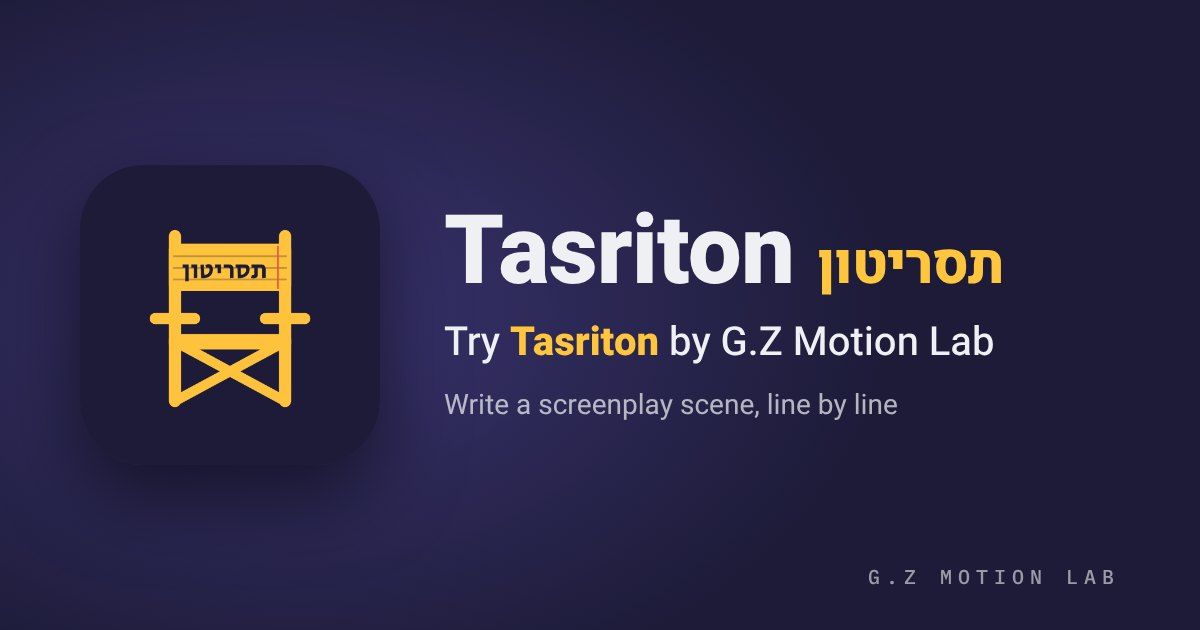
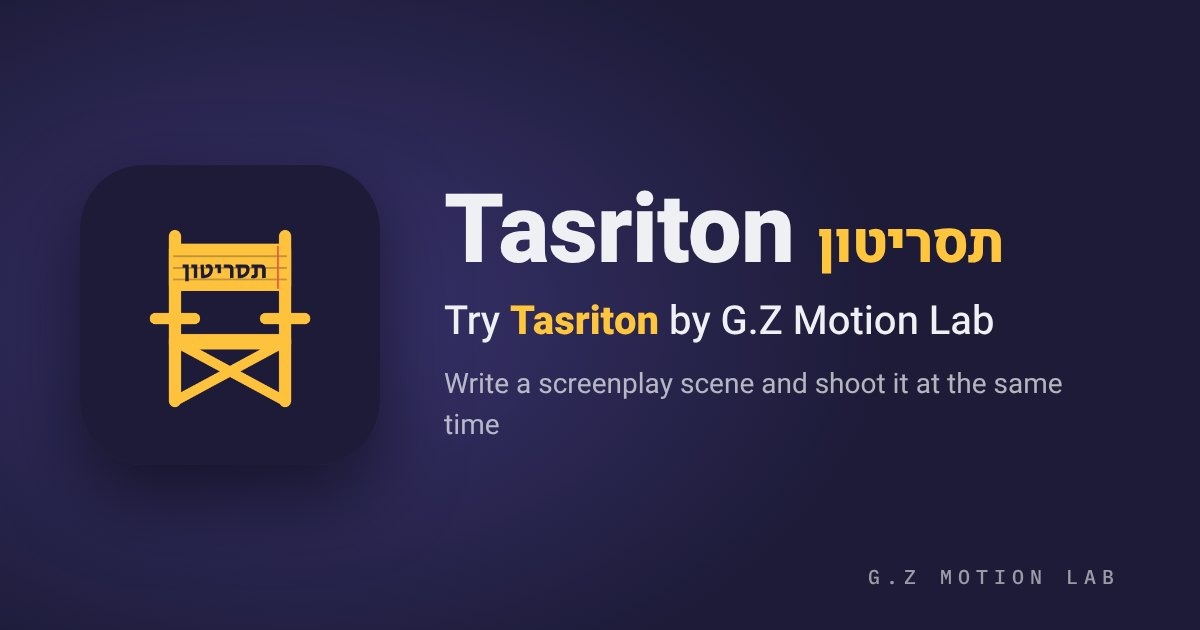
Share preview: write a scene and shoot it at the same time
Claude-Session: https://claude.ai/code/session_01VdLm7zTEMd1huVT5ckAVnR

Changed region(s): [[0.37, 0.3016, 0.8942, 0.6937]]

diff --git a/index.html b/index.html
@@ -6,7 +6,7 @@
 <meta property="og:type" content="website">
 <meta property="og:site_name" content="G.Z Motion Lab">
 <meta property="og:title" content="Tasriton · by G.Z Motion Lab">
-<meta property="og:description" content="Try Tasriton by G.Z Motion Lab. Write a screenplay scene, line by line.">
+<meta property="og:description" content="Try Tasriton by G.Z Motion Lab. Write a screenplay scene and shoot it at the same time.">
 <meta property="og:url" content="https://gzfilm.github.io/tasriton/">
 <meta property="og:image" content="https://gzfilm.github.io/tasriton/share.jpg">
 <meta property="og:image:secure_url" content="https://gzfilm.github.io/tasriton/share.jpg">
@@ -16,7 +16,7 @@
 <meta property="og:image:alt" content="Tasriton · by G.Z Motion Lab">
 <meta name="twitter:card" content="summary_large_image">
 <meta name="twitter:title" content="Tasriton · by G.Z Motion Lab">
-<meta name="twitter:description" content="Try Tasriton by G.Z Motion Lab. Write a screenplay scene, line by line.">
+<meta name="twitter:description" content="Try Tasriton by G.Z Motion Lab. Write a screenplay scene and shoot it at the same time.">
 <meta name="twitter:image" content="https://gzfilm.github.io/tasriton/share.jpg">
 <title>תסריטון</title>
 <meta name="description" content="כותבים סצנה, שורה אחרי שורה: אפליקציית תסריט לכיתות ג׳–ו׳">
